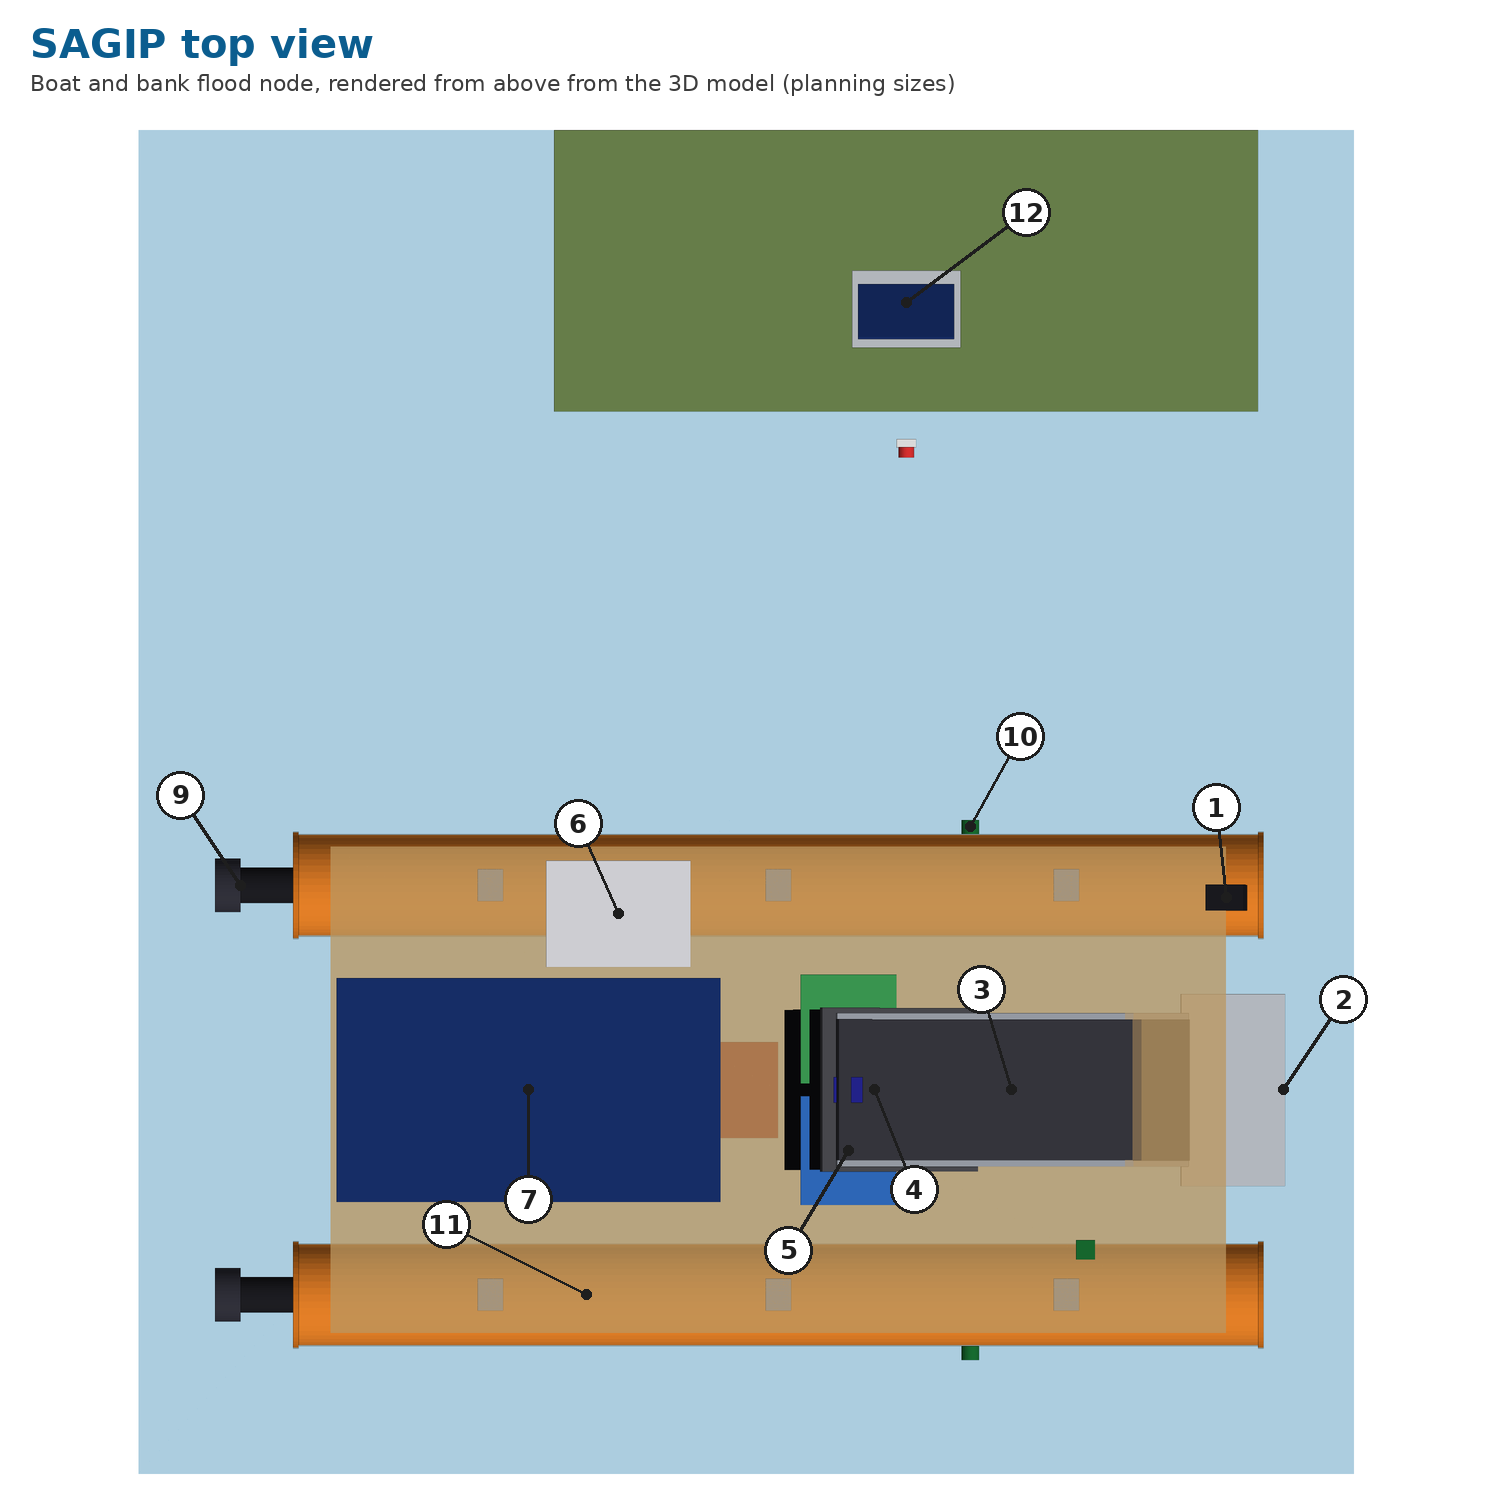
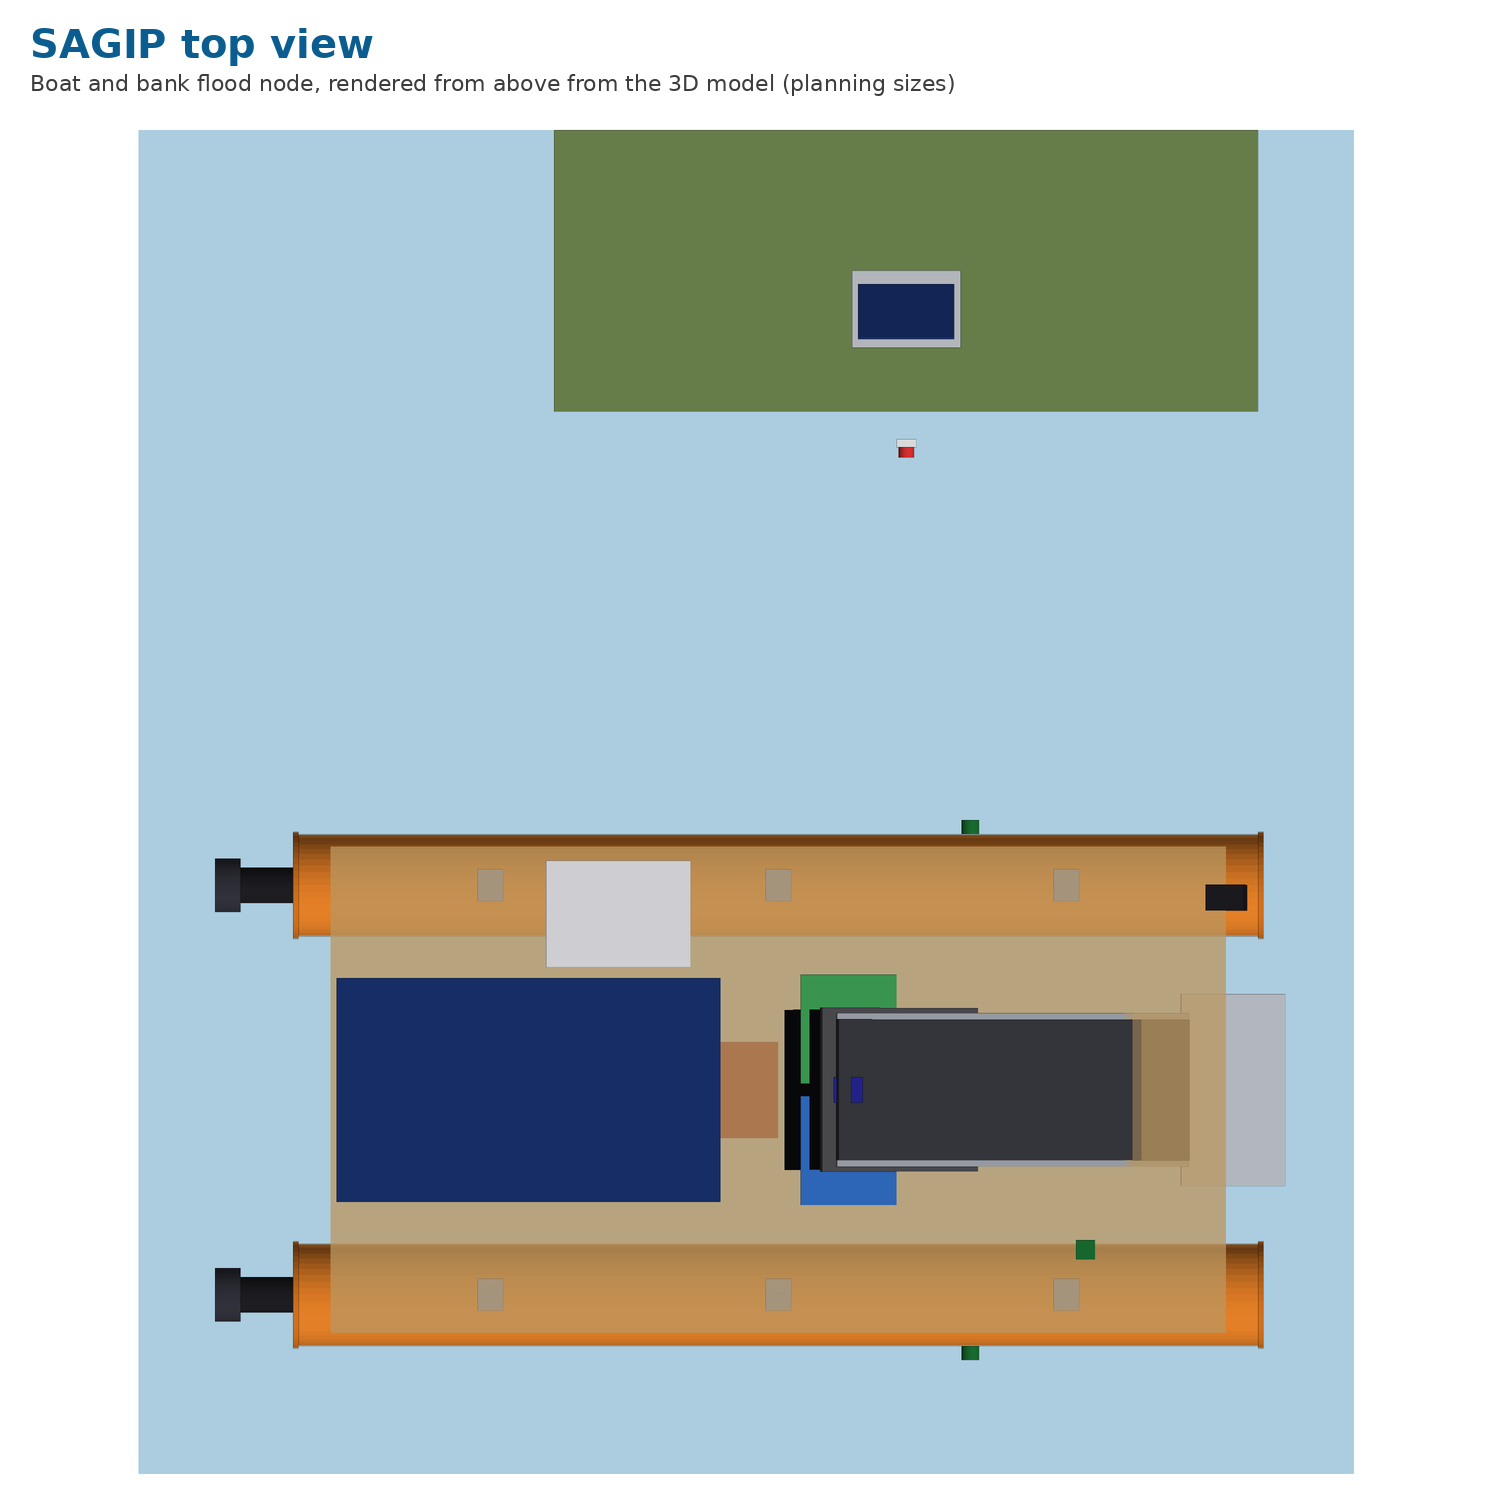
Top view: remove numbered callouts
Claude-Session: https://claude.ai/code/session_01BeuSv9ktphNSqgYLtwXpw3

diff --git a/sft_entry/build/make_top_view.py b/sft_entry/build/make_top_view.py
@@ -1,10 +1,10 @@
 """2D top-view render of the SAGIP model with the bank flood node (uses make_3d_model.py)."""
 import sys
-sys.argv = [sys.argv[0], '--no-stl']
+sys.argv_orig = list(sys.argv); sys.argv = [sys.argv[0], "--no-stl"]
 from make_3d_model import *
 W, H = 1500, 1500
 top, px = render(make_view(-90, 89.9), W, H, margin=0.09)
-label(top, px, {1: (-10, -90), 2: (60, -90), 3: (-30, -100), 4: (40, 100), 5: (-60, 100), 6: (-40, -90), 7: (0, 110), 9: (-60, -90),
+if "--labels" in sys.argv_orig: label(top, px, {1: (-10, -90), 2: (60, -90), 3: (-30, -100), 4: (40, 100), 5: (-60, 100), 6: (-40, -90), 7: (0, 110), 9: (-60, -90),
                 10: (50, -90), 11: (-140, -70), 12: (120, -90)}, rad=24)
 from PIL import Image as _I
 c = _I.new('RGB', (W, H + 110), (255, 255, 255)); c.paste(top, (0, 110))
